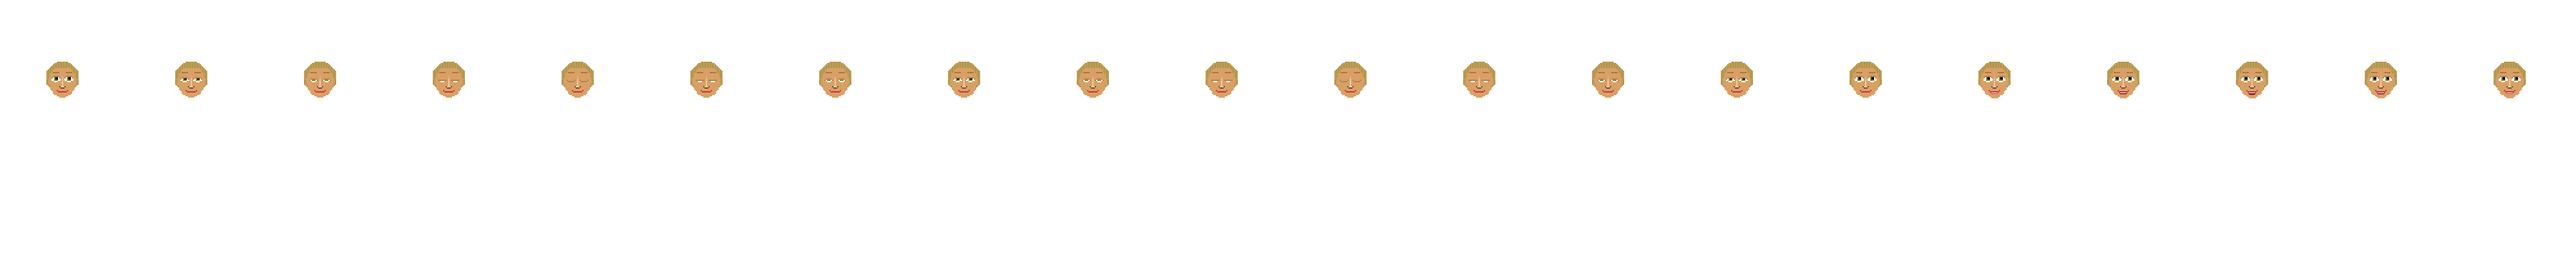
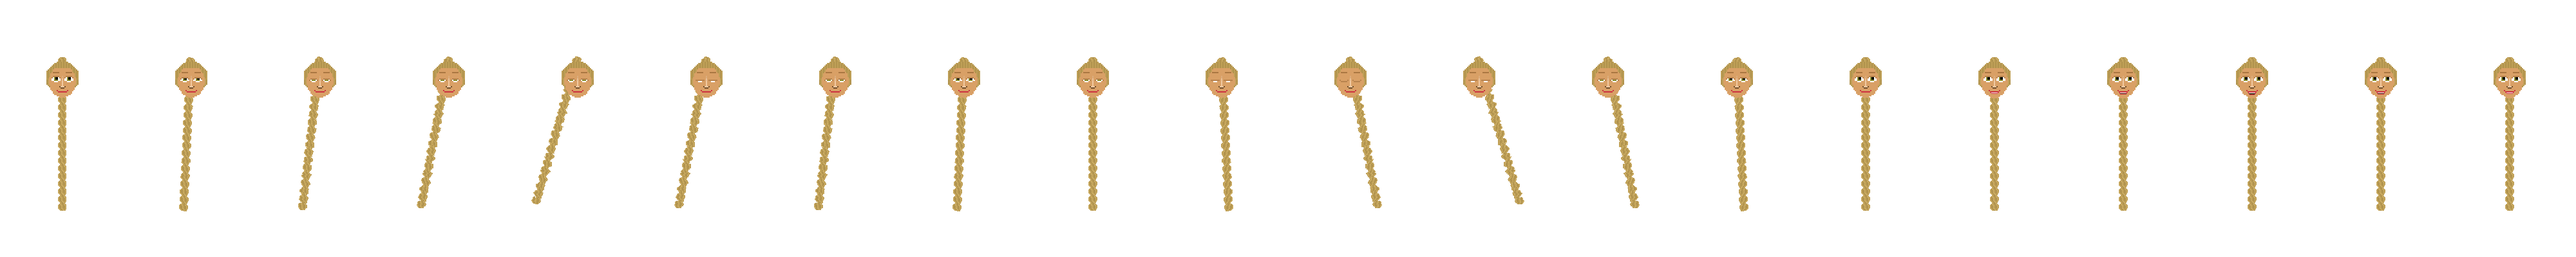
Add hero right movement animation

diff --git a/core/hero.py b/core/hero.py
@@ -9,23 +9,30 @@ class HeroManager(object):
         self.screen = screen
         self.frame_rate = frame_rate
         self.down = False
-        self.mm = movement_manager
 
+        events = [
+            ('start_moving_right', self.handle_start_moving_right),
+            ('stop_moving_right', self.handle_stop_moving_right)
+        ]
+        self.mm = movement_manager
+        self.mm.subscribe_to_events(events)
 
     def _handle_idling(self):
         self.hero.idle_time += 1
         self.hero.is_idle = self.hero.idle_time > self.frame_rate * 5
 
     def _handle_movement(self):
-        if self.mm.moving_right:
-            self.hero.idle_time = 0
-
-        if self.mm.moving_left:
-            self.hero.idle_time = 0
-
-        if self.hero.animating and not self.hero.is_idle:
+        if self.mm.moving or self.hero.animating:
             self.hero.idle_time = 0
             self.hero.animate()
+
+    def handle_stop_moving_right(self):
+        if not self.mm.moving_right:
+            self.hero.animate_moving_right_stop()
+
+    def handle_start_moving_right(self):
+        if self.mm.moving_right:
+            self.hero.animate_moving_right_start()
 
     def start_animating_blink(self):
         self.hero.animating = True
@@ -43,14 +50,20 @@ class HeroManager(object):
 
 
 class Hero(Sprite):
-    def __init__(self, app, file='', layer=0, screen_height=0, screen_width=0):
-        asset_location = os.path.join(os.path.dirname(__file__), '../{}/assets/images/{}'.format(app, file))
+    def __init__(self, app, files, layer=0, screen_height=0, screen_width=0):
         super(Hero, self).__init__()
-        self.image = image.load(asset_location).convert_alpha()
+        for key, file in files.iteritems():
+            if isinstance(file, dict):
+                for k, f in file.iteritems():
+                    self._add_image(app, "{}_{}".format(key, k), f)
+            else:
+                self._add_image(app, key, file)
+
+        self.image = self.image_idle #Always start rendering the hero in an idle state
         self._sprite_sheet_width = self.image.get_rect().width
         self._layer = layer
         self.frame_width = 200
-        self.frame_height = 400
+        self.frame_height = 600
         self.frame_pos_x = 0
         self.frame_pos_y = - (screen_height - self.image.get_rect().height)
         self.middle = screen_width / 2 - self.frame_width / 2
@@ -61,6 +74,10 @@ class Hero(Sprite):
         self._hero_is_idle = False
         self.counter = 0
 
+    def _add_image(self, app, key, file):
+        asset_location = os.path.join(os.path.dirname(__file__), '../{}/assets/images/{}'.format(app, file))
+        self.__setattr__('image_{}'.format(key), image.load(asset_location).convert_alpha())
+
     @property
     def is_idle(self):
         return self._hero_is_idle
@@ -70,10 +87,17 @@ class Hero(Sprite):
         if not value:
             return
 
-        if self._animate_blink not in self.running_animations:
-            self.running_animations.append(self._animate_blink)
+        self._set_new_image(self.image_idle)
+        self.add_animation(self._animate_blink)
+
+    def add_animation(self, animation):
+        if animation not in self.running_animations:
+            self.running_animations.append(animation)
             self.animating = True
-            self.animate()
+
+    def _set_new_image(self, new_image):
+        self.image = new_image
+        self._sprite_sheet_width = self.image.get_rect().width
 
     def _get_rect(self):
         return Rect(self.frame_pos_x, self.frame_pos_y, self.frame_width, self.frame_height)
@@ -82,6 +106,51 @@ class Hero(Sprite):
         if self.counter % 4 != 0:
             self.counter += 1
             return
+
+        self._animate_image(self._animate_blink, None, loop=False)
+
+    def animate_moving_right_start(self):
+        self.frame_pos_x = 0
+        self._set_new_image(self.image_moving_right_start)
+        self._animate_image(self._animate_moving_right_start, None, loop=False)
+
+    def _animate_moving_right_start(self):
+        if self.counter % 5 != 0:
+            self.counter += 1
+            return
+
+        self._animate_image(self._animate_moving_right_start, None, loop=False)
+        if not self.animating:
+            self._set_new_image(self.image_moving_right_middle)
+            self._animate_image(self._animate_moving_right_middle, None)
+
+    def _animate_moving_right_middle(self):
+        if self.counter % 10 != 0:
+            self.counter += 1
+            return
+
+        self._set_new_image(self.image_moving_right_middle)
+        self._animate_image(self._animate_moving_right_middle, None)
+
+    def animate_moving_right_stop(self):
+        self.frame_pos_x = 0
+        self._set_new_image(self.image_moving_right_stop)
+        self._animate_image(self._animate_moving_right_stop, self._animate_moving_right_middle, loop=False)
+
+    def _animate_moving_right_stop(self):
+        if self.counter % 5 != 0:
+            self.counter += 1
+            return
+
+        self._animate_image(self._animate_moving_right_stop, None, loop=False)
+        if not self.animating:
+            self._set_new_image(self.image_idle)
+
+    def _animate_image(self, animation, previous_animation, loop=True):
+        self.add_animation(animation)
+
+        if previous_animation and previous_animation in self.running_animations:
+            self.running_animations.remove(previous_animation)
 
         if self.frame_pos_x < self._sprite_sheet_width - self.frame_width:
             self.frame_pos_x += self.frame_width
@@ -94,7 +163,8 @@ class Hero(Sprite):
             self.counter = 0
             self.idle_time = 0
             self.is_idle = False
-            self.running_animations.remove(self._animate_blink)
+            if not loop:
+                self.running_animations.remove(animation)
 
     def animate(self):
         for animation in self.running_animations:

diff --git a/core/movement.py b/core/movement.py
@@ -3,6 +3,7 @@
 
 class MovementManager(object):
     def __init__(self):
+        self.moving = False
         self.moving_right = False
         self.moving_left = False
         self.moving_up = False
@@ -10,6 +11,10 @@ class MovementManager(object):
         self.y_position = 0
         self.x_position = 0
         self.drop_speed = 1
+        self.subscribed_events = {
+            'start_moving_right': [],
+            'stop_moving_right': []
+        }
 
     def _move_right(self):
         self.x_position += 1
@@ -17,13 +22,14 @@ class MovementManager(object):
     def _move_left(self):
         if self.x_position > 0:
             self.x_position -= 1
+        else:
+            self.stop_moving_left()
 
     def _move_up(self):
-        if self.y_position < 150:
+        if self.y_position < 50:
             self.y_position += 1
         else:
-            self.moving_up = False
-            self.moving_down = True
+            self.stop_moving_up()
 
     def _move_down(self):
         if self.y_position > 0:
@@ -45,25 +51,46 @@ class MovementManager(object):
         if self.moving_down:
             self._move_down()
 
+    def _fire_subscribed_events(self, subscriptions):
+        for subscriber in subscriptions:
+            subscriber()
+
+    def subscribe_to_events(self, events):
+        for event in events:
+            event_name, subscriber = event
+            self.subscribe_to_event(event_name, subscriber)
+
+
+    def subscribe_to_event(self, event, subscriber):
+        self.subscribed_events[event].append(subscriber)
+
     def stop_moving_left(self):
+        self.moving = False
         self.moving_left = False
 
     def start_moving_left(self):
+        self.moving = True
         self.moving_right = False
         self.moving_left = True
 
     def stop_moving_right(self):
+        self.moving = False
         self.moving_right = False
+        self._fire_subscribed_events(self.subscribed_events['stop_moving_right'])
 
     def start_moving_right(self):
+        self.moving = True
         self.moving_right = True
         self.moving_left = False
+        self._fire_subscribed_events(self.subscribed_events['start_moving_right'])
 
     def stop_moving_up(self):
         self.drop_speed = 1
+        self.moving = True
         self.moving_up = False
         self.moving_down = True
 
     def start_moving_up(self):
         if not self.moving_down:
+            self.moving = True
             self.moving_up = True

diff --git a/castle/main.py b/castle/main.py
@@ -18,7 +18,15 @@ class CastleGameLoop(GameLoop):
         self.background_manager.add([clouds])
 
     def _setup_hero(self):
-        hero = Hero(self.app, 'hero.png', screen_height=self.screen_height, screen_width=self.screen_width)
+        hero_files = {
+            'idle': 'hero.png',
+            'moving_right': {
+                'start':'hero_moving_right_start.png',
+                'middle': 'hero_moving_right_middle.png',
+                'stop': 'hero_moving_right_stop.png'
+            }
+        }
+        hero = Hero(self.app, hero_files, screen_height=self.screen_height, screen_width=self.screen_width)
         self.hero_manager.add_hero(hero)
 
     def _fill_screen(self, **kwargs):
